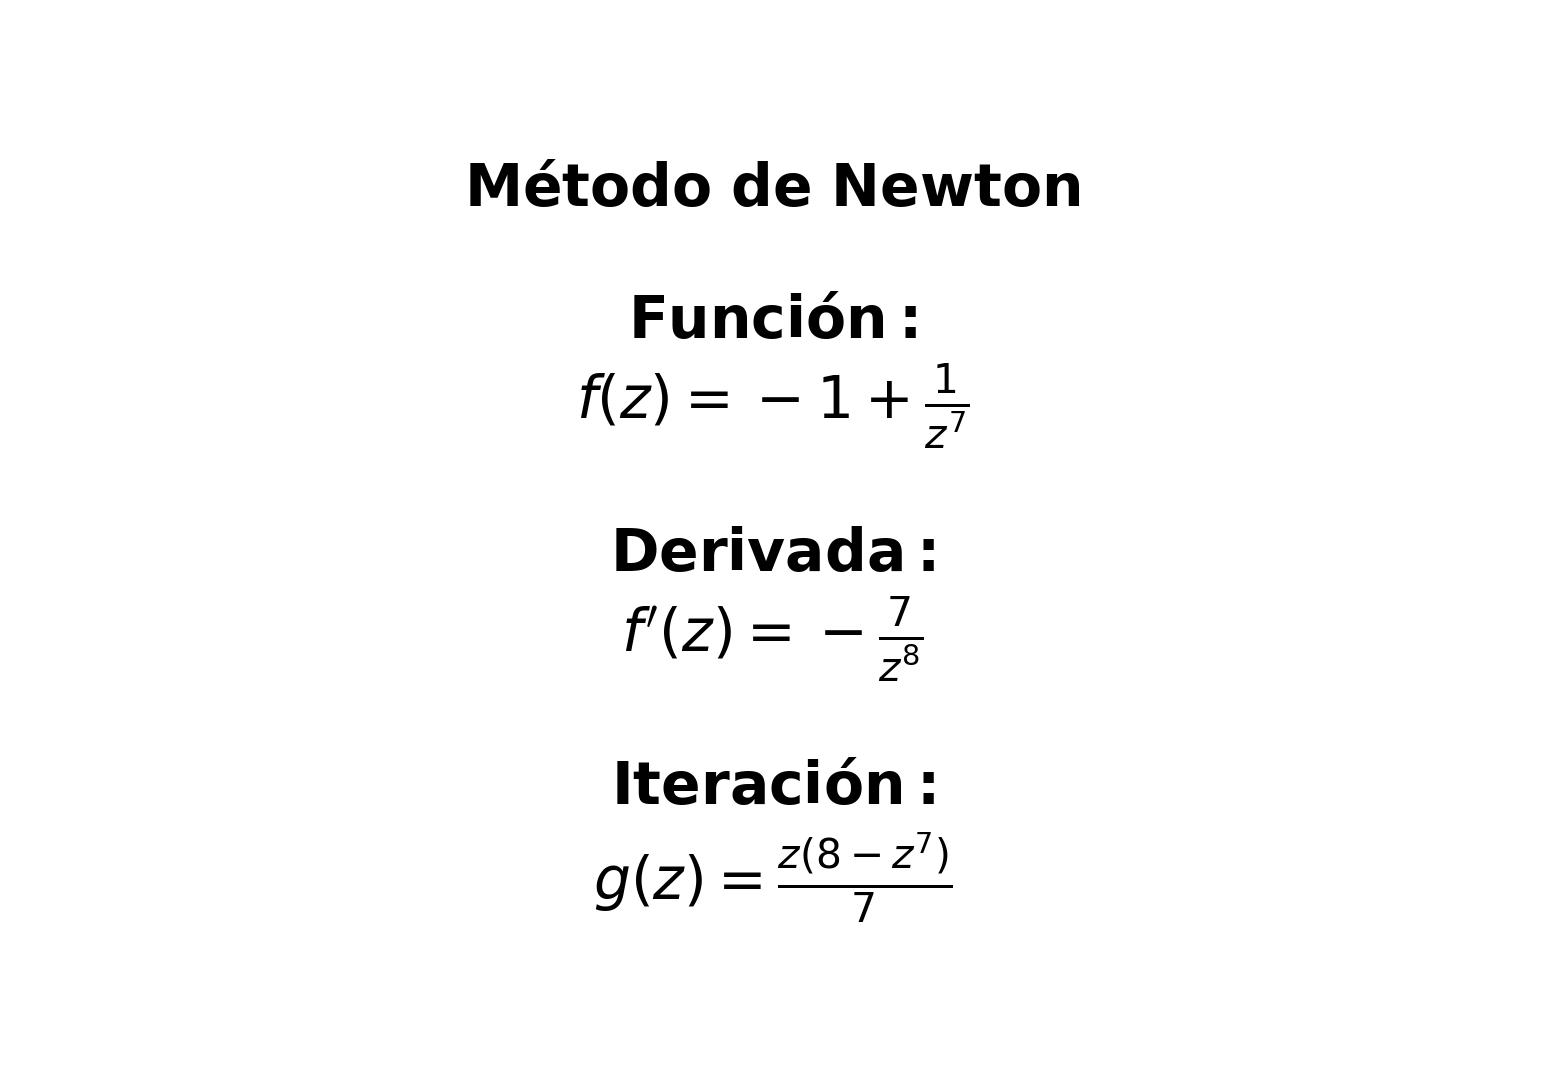
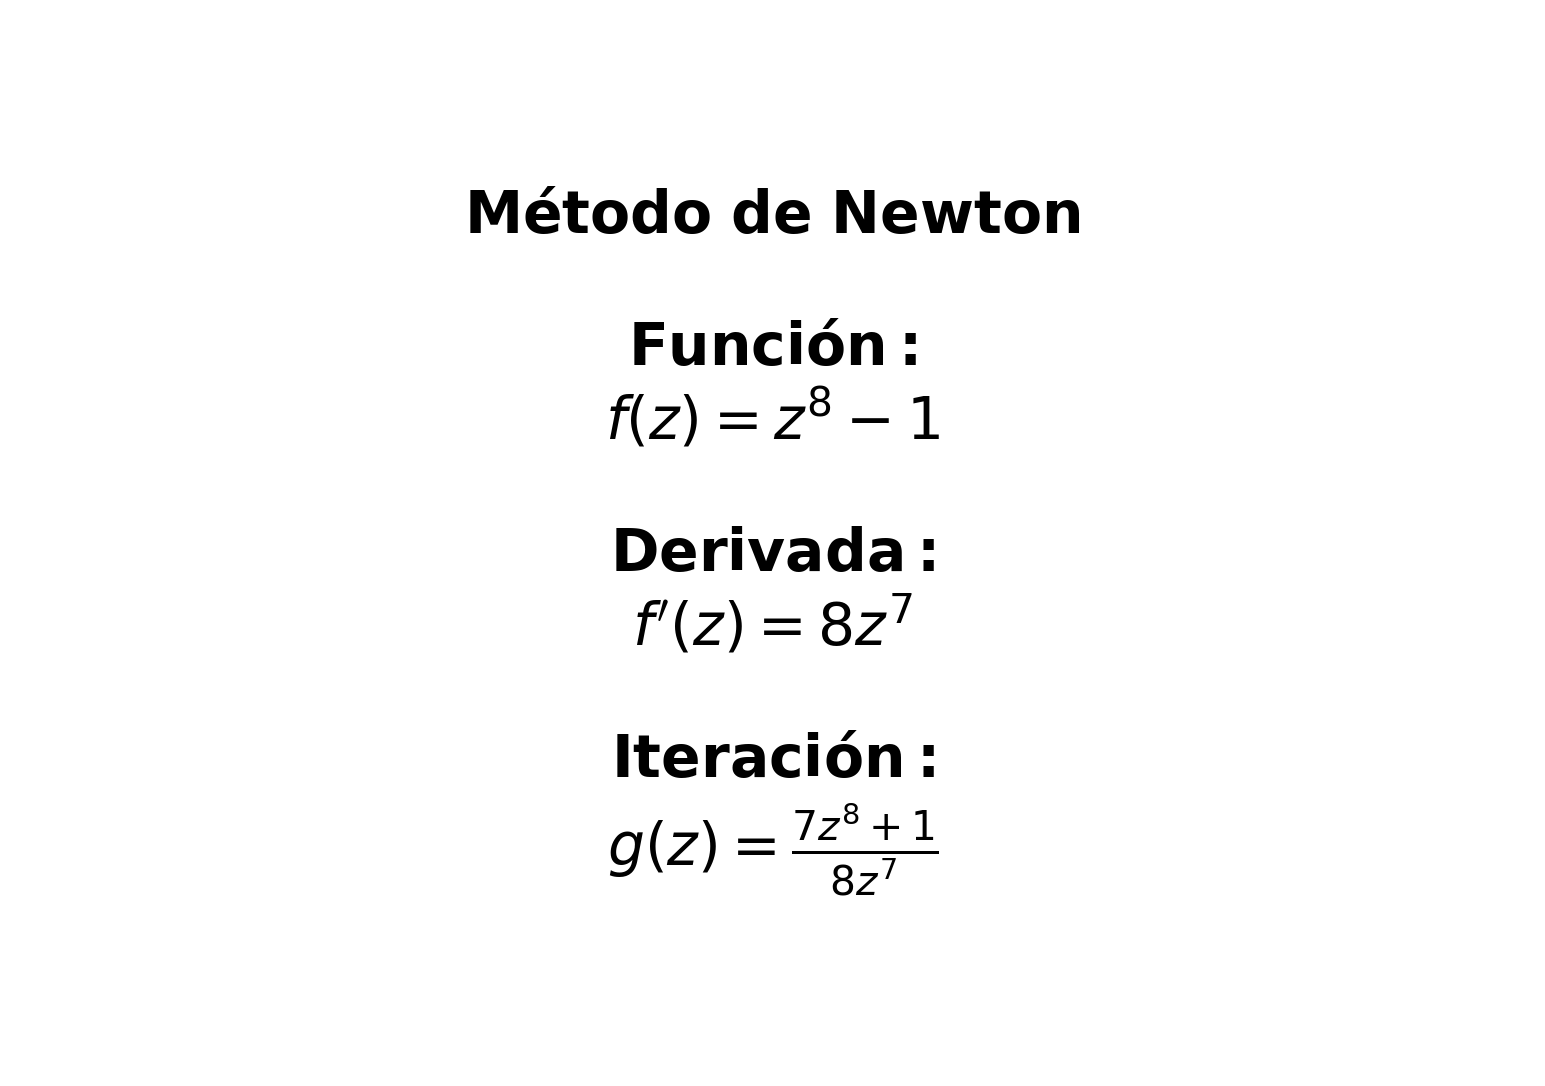
Lo arreglé

diff --git a/Newton.py b/Newton.py
@@ -38,7 +38,7 @@ npuntos=300
 #maior sexa o número de puntos máis preciso sera o gráfico, pero tamén máis
 #tempo se necesitará para levar a cabo os cálculos.
 
-f=z/(z**8)-1
+f=(z**8) - 1
 npuntos = 300; a, b, c, d = -1.1, 0.6, -0.5, 0.5
 derf=Derivative(f,z,1).doit()
 g=simplify(z-f/derf)
@@ -83,8 +83,8 @@ print(' ')
 #cores atractiva. 
 if args.example == "Color Cíclico":
     plt.imshow(fractal,cmap='twilight_shifted', extent=(a, b, c, d))
-elif args.example == "Color Secuecial":
-    plt.imshow(fractal,cmap='magma', extent=(a, b, c, d))
+elif args.example == "Color Secuencial":
+    plt.imshow(fractal,cmap='seismic', extent=(a, b, c, d))
 elif args.example == "Coolwarm":
     plt.imshow(fractal,cmap='coolwarm', extent=(a, b, c, d))
 
